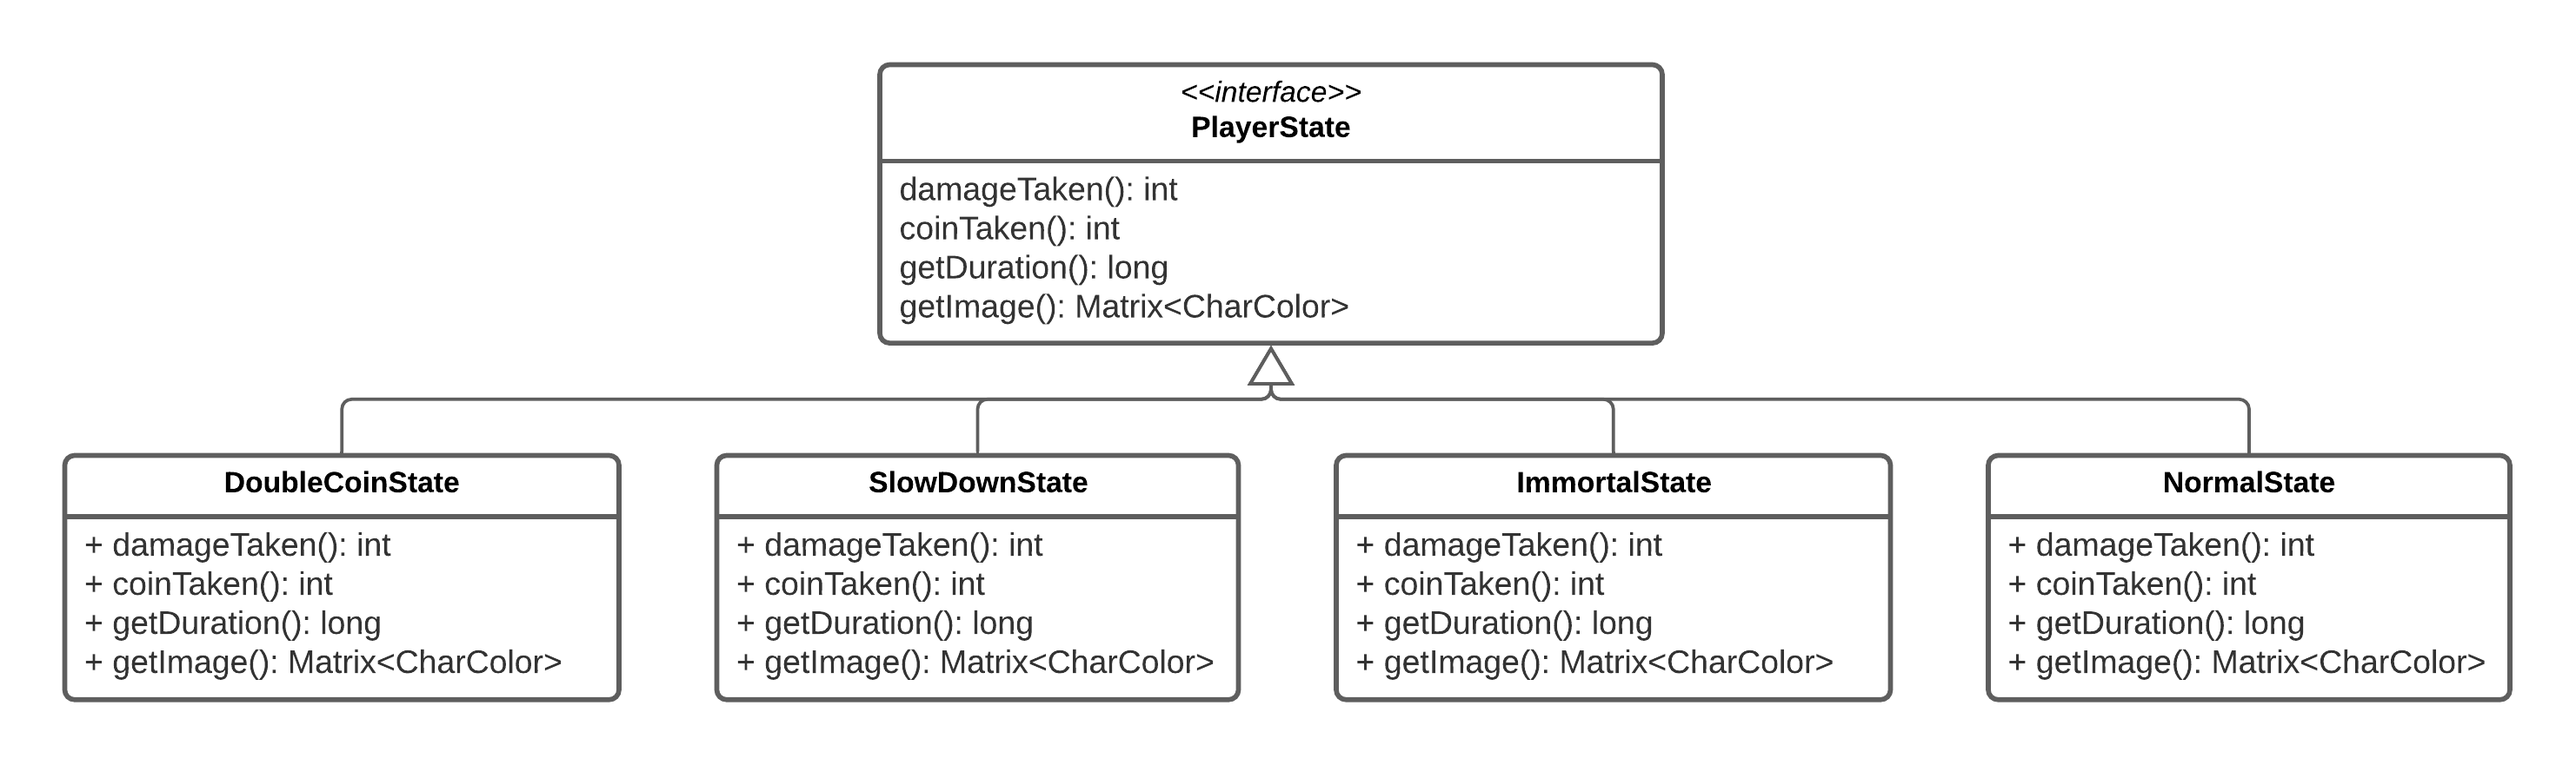
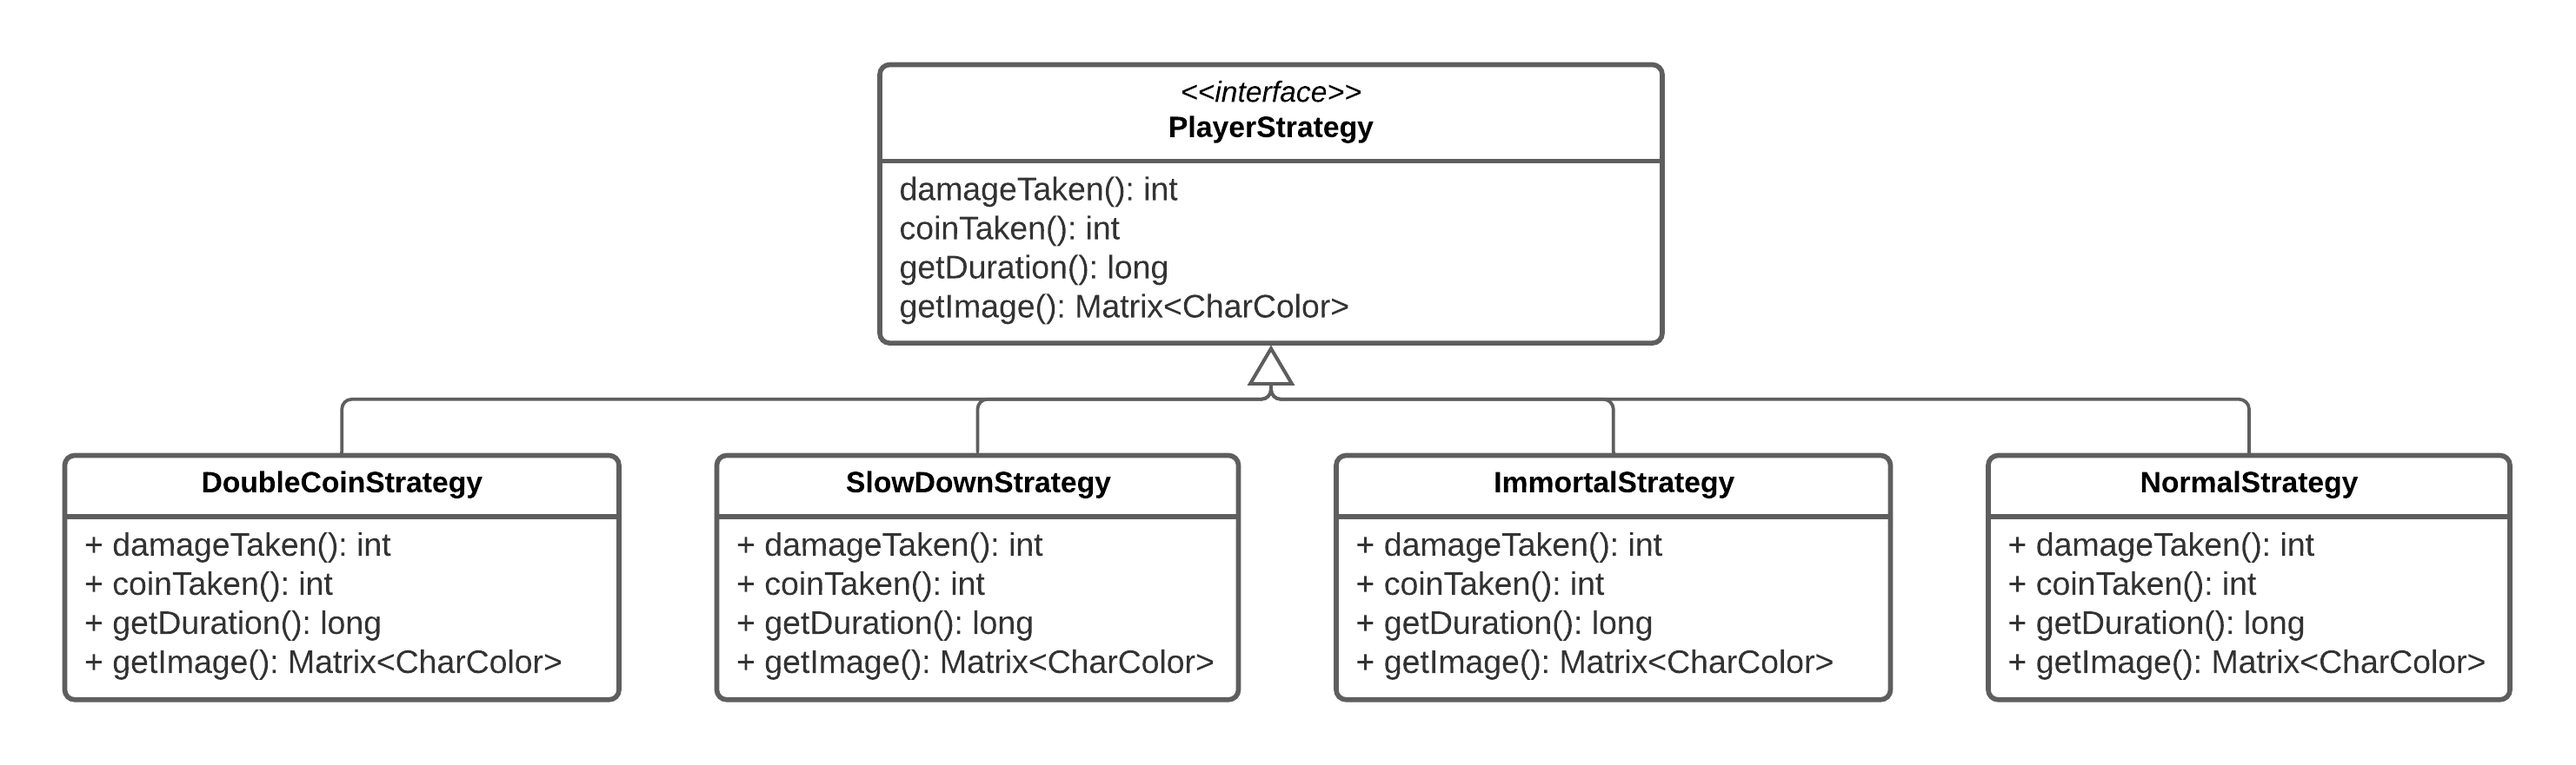
Updated README, added Instructions Menu :pencil2:

diff --git a/src/main/java/org/jetpack/controller/game/PlayerController.java b/src/main/java/org/jetpack/controller/game/PlayerController.java
@@ -8,10 +8,10 @@ import org.jetpack.model.arena.Arena;
 import org.jetpack.model.elements.player.Player;
 import org.jetpack.model.elements.movements.DownMovement;
 import org.jetpack.model.elements.movements.UpMovement;
-import org.jetpack.model.elements.player.playerStates.DoubleCoinsState;
-import org.jetpack.model.elements.player.playerStates.ImmortalState;
-import org.jetpack.model.elements.player.playerStates.NormalState;
-import org.jetpack.model.elements.player.playerStates.SlowDownState;
+import org.jetpack.model.elements.player.playerStrategies.DoubleCoinsStrategy;
+import org.jetpack.model.elements.player.playerStrategies.ImmortalStrategy;
+import org.jetpack.model.elements.player.playerStrategies.NormalStrategy;
+import org.jetpack.model.elements.player.playerStrategies.SlowDownStrategy;
 
 public class PlayerController extends GameController {
     private static final long MOVEMENT_PERIOD = 150;
@@ -31,11 +31,11 @@ public class PlayerController extends GameController {
         powerUpCounter -= elapsed;
         Player player = getModel().getPlayer();
 
-        if (powerUpCounter <= 0) player.setState(new NormalState());
+        if (powerUpCounter <= 0) player.setState(new NormalStrategy());
 
-        if (action == GUI.ACTION.NUMBER1 && player.buyPowerUp()) player.setState(new ImmortalState());
-        else if (action == GUI.ACTION.NUMBER2 && player.buyPowerUp()) player.setState(new DoubleCoinsState());
-        else if (action == GUI.ACTION.NUMBER3 && player.buyPowerUp()) player.setState(new SlowDownState());
+        if (action == GUI.ACTION.NUMBER1 && player.buyPowerUp()) player.setState(new ImmortalStrategy());
+        else if (action == GUI.ACTION.NUMBER2 && player.buyPowerUp()) player.setState(new DoubleCoinsStrategy());
+        else if (action == GUI.ACTION.NUMBER3 && player.buyPowerUp()) player.setState(new SlowDownStrategy());
         else if (action == GUI.ACTION.MOUSE_PRESSED && actionBefore == GUI.ACTION.NONE) {
             movementPace.resetCounter();
             player.setMovement(new UpMovement());

diff --git a/src/main/java/org/jetpack/model/elements/ImageLibrary.java b/src/main/java/org/jetpack/model/elements/ImageLibrary.java
@@ -22,23 +22,23 @@ public final class ImageLibrary {
 
     public static Matrix<CharColor> getJetpackJoyrideImage() {
         if (jetpackJoyrideImage == null) {
-            jetpackJoyrideImage = new Matrix<>(11,4, new CharColor('-', ColorDatabase.GOLD.getName()));
+            jetpackJoyrideImage = new Matrix<>(12,4, new CharColor('-', ColorDatabase.GOLD.getName()));
 
             jetpackJoyrideImage.setValue(0,0, new CharColor('+', ColorDatabase.GOLD.getName()));
-            jetpackJoyrideImage.setValue(10,0, new CharColor('+', ColorDatabase.GOLD.getName()));
+            jetpackJoyrideImage.setValue(11,0, new CharColor('+', ColorDatabase.GOLD.getName()));
             jetpackJoyrideImage.setValue(0,3, new CharColor('+', ColorDatabase.GOLD.getName()));
-            jetpackJoyrideImage.setValue(10,3, new CharColor('+', ColorDatabase.GOLD.getName()));
+            jetpackJoyrideImage.setValue(11,3, new CharColor('+', ColorDatabase.GOLD.getName()));
 
             jetpackJoyrideImage.setValue(0,1, new CharColor('|', ColorDatabase.GOLD.getName()));
             jetpackJoyrideImage.setValue(0,2, new CharColor('|', ColorDatabase.GOLD.getName()));
-            jetpackJoyrideImage.setValue(10,1, new CharColor('|', ColorDatabase.GOLD.getName()));
-            jetpackJoyrideImage.setValue(10,2, new CharColor('|', ColorDatabase.GOLD.getName()));
+            jetpackJoyrideImage.setValue(11,1, new CharColor('|', ColorDatabase.GOLD.getName()));
+            jetpackJoyrideImage.setValue(11,2, new CharColor('|', ColorDatabase.GOLD.getName()));
 
-            String s = "JETPACK  ";
+            String s = "JETPACK   ";
             for (int i = 0; i < s.length(); ++i) jetpackJoyrideImage.setValue(i+1,1,
                     new CharColor(s.charAt(i), ColorDatabase.RED.getName()));
 
-            s = "  JOYRIDE";
+            s = "   JOYRIDE";
             for (int i = 0; i < s.length(); ++i) jetpackJoyrideImage.setValue(i+1,2,
                     new CharColor(s.charAt(i), ColorDatabase.WHITE.getName()));
         }

diff --git a/src/main/java/org/jetpack/viewer/menu/InstructionsMenuViewer.java b/src/main/java/org/jetpack/viewer/menu/InstructionsMenuViewer.java
@@ -1,0 +1,38 @@
+package org.jetpack.viewer.menu;
+
+import org.jetpack.gui.ColorDatabase;
+import org.jetpack.gui.GUI;
+import org.jetpack.model.Position;
+import org.jetpack.model.menu.InstructionsMenu;
+import org.jetpack.viewer.Viewer;
+
+import java.awt.*;
+
+public class InstructionsMenuViewer extends Viewer<InstructionsMenu> {
+
+    public InstructionsMenuViewer(InstructionsMenu menu) {super(menu);}
+
+    @Override
+    protected void drawModel(GUI gui) {
+        Position center = new Position(gui.getTerminalWidth() / 2, gui.getTerminalHeight() / 2);
+
+        gui.drawRectangle(new Position(0,0), new Dimension(gui.getTerminalWidth(), gui.getTerminalHeight()),
+                1, ColorDatabase.GRAY.getName());
+        gui.drawFillRectangle(new Position(1,1), new Dimension(gui.getTerminalWidth() - 2,
+                gui.getTerminalHeight() - 2), ColorDatabase.DARK_GRAY.getName());
+
+        gui.drawText(new Position(center.getX() - 9, 2), "-- INSTRUCTIONS --", ColorDatabase.GOLD.getName());
+        gui.drawText(new Position(2, 5), "P", ColorDatabase.RED.getName());
+        gui.drawText(new Position(4, 5), "NORMAL", ColorDatabase.WHITE.getName());
+        gui.drawText(new Position(2, 7), "P", ColorDatabase.LIGHT_GRAY.getName());
+        gui.drawText(new Position(4, 7), "IMMORTAL     number 1", ColorDatabase.WHITE.getName());
+        gui.drawText(new Position(2, 9), "P", ColorDatabase.GOLD.getName());
+        gui.drawText(new Position(4, 9), "DOUBLE-COINS number 2", ColorDatabase.WHITE.getName());
+        gui.drawText(new Position(2, 11), "P", ColorDatabase.VIBRANT_GREEN.getName());
+        gui.drawText(new Position(4, 11), "SLOW-DOWN    number 3", ColorDatabase.WHITE.getName());
+        gui.drawText(new Position(center.getX() - 9, 14), "10 COINS = 10 SECS", ColorDatabase.WHITE.getName());
+
+        gui.drawText(new Position(gui.getTerminalWidth() - 6, gui.getTerminalHeight() - 3), getModel().getEntry(0),
+                ColorDatabase.WHITE.getName());
+    }
+}

diff --git a/src/main/java/org/jetpack/model/elements/player/Player.java b/src/main/java/org/jetpack/model/elements/player/Player.java
@@ -4,19 +4,19 @@ import org.jetpack.model.Position;
 import org.jetpack.model.elements.Element;
 import org.jetpack.model.elements.ImageLibrary;
 import org.jetpack.model.elements.movements.DownMovement;
-import org.jetpack.model.elements.player.playerStates.*;
+import org.jetpack.model.elements.player.playerStrategies.*;
 
 public class Player extends Element {
     private static final int POWER_UP_COST = 10;
     private int lives;
     private int nCoins;
-    private PlayerState state;
+    private PlayerStrategy state;
 
     public Player(Position position) {
         super(position, ImageLibrary.getPlayerImage());
         this.lives = 3;
         this.nCoins = 0;
-        this.state = new NormalState();
+        this.state = new NormalStrategy();
         setMovement(new DownMovement());
     }
 
@@ -42,12 +42,12 @@ public class Player extends Element {
         return true;
     }
 
-    public void setState(PlayerState state) {
+    public void setState(PlayerStrategy state) {
         setImage(state.getImage());
         this.state = state;
     }
     
-    public PlayerState getState() {
+    public PlayerStrategy getState() {
         return this.state;
     }
 

diff --git a/src/main/java/org/jetpack/controller/menu/MainMenuController.java b/src/main/java/org/jetpack/controller/menu/MainMenuController.java
@@ -3,9 +3,11 @@ package org.jetpack.controller.menu;
 import org.jetpack.controller.Controller;
 import org.jetpack.controller.GameLoop;
 import org.jetpack.gui.GUI;
+import org.jetpack.model.menu.InstructionsMenu;
 import org.jetpack.model.menu.MainMenu;
 import org.jetpack.model.arena.RandomArenaBuilder;
 import org.jetpack.states.ArenaState;
+import org.jetpack.states.InstructionsMenuState;
 
 public class MainMenuController extends Controller<MainMenu> {
 
@@ -27,6 +29,8 @@ public class MainMenuController extends Controller<MainMenu> {
                 if (getModel().isSelectedStart()) gameLoop.setState(new ArenaState
                         (new RandomArenaBuilder(gameLoop.getWidth() - 2 * GameLoop.INFO_SIZE,
                                 gameLoop.getHeight() - 2 * GameLoop.INFO_SIZE).createArena()));
+                else if (getModel().isSelectedInstructions()) gameLoop.setState(
+                        new InstructionsMenuState(new InstructionsMenu()));
                 else if (getModel().isSelectedExit()) gameLoop.stop();
         }
     }

diff --git a/src/main/java/org/jetpack/viewer/menu/MainMenuViewer.java b/src/main/java/org/jetpack/viewer/menu/MainMenuViewer.java
@@ -22,10 +22,12 @@ public class MainMenuViewer extends Viewer<MainMenu> {
                 1, ColorDatabase.GRAY.getName());
         gui.drawFillRectangle(new Position(1,1), new Dimension(gui.getTerminalWidth() - 2,
                 gui.getTerminalHeight() - 2), ColorDatabase.DARK_GRAY.getName());
-        gui.drawImage(new Position(center.getX() - 5, center.getY() - 5), ImageLibrary.getJetpackJoyrideImage());
+
+        gui.drawImage(new Position(center.getX() - 6, center.getY() - 5), ImageLibrary.getJetpackJoyrideImage());
 
         for (int i = 0; i < getModel().getNumberEntries(); i++)
-            gui.drawText(new Position(center.getX() - 2, center.getY() + i), getModel().getEntry(i),
+            gui.drawText(new Position(center.getX() - getModel().getEntry(i).length()/2
+                            , center.getY() + i), getModel().getEntry(i),
                     getModel().isSelected(i) ? ColorDatabase.WHITE.getName() : ColorDatabase.LIGHT_GRAY.getName());
     }
 }

diff --git a/src/main/java/org/jetpack/model/elements/player/playerStrategies/NormalStrategy.java b/src/main/java/org/jetpack/model/elements/player/playerStrategies/NormalStrategy.java
@@ -1,10 +1,10 @@
-package org.jetpack.model.elements.player.playerStates;
+package org.jetpack.model.elements.player.playerStrategies;
 
 import org.jetpack.model.CharColor;
 import org.jetpack.model.Matrix;
 import org.jetpack.model.elements.ImageLibrary;
 
-public class SlowDownState implements PlayerState {
+public class NormalStrategy implements PlayerStrategy {
     @Override
     public int damageTaken() { return 1; }
 
@@ -12,8 +12,10 @@ public class SlowDownState implements PlayerState {
     public int coinTaken() { return 1; }
 
     @Override
-    public long getDuration() { return 10000; }
+    public long getDuration() {
+        return Long.MAX_VALUE;
+    }
 
     @Override
-    public Matrix<CharColor> getImage() { return ImageLibrary.getPlayerSlowDownStateImage(); }
+    public Matrix<CharColor> getImage() { return ImageLibrary.getPlayerImage(); }
 }

diff --git a/src/main/java/org/jetpack/model/elements/player/playerStrategies/SlowDownStrategy.java b/src/main/java/org/jetpack/model/elements/player/playerStrategies/SlowDownStrategy.java
@@ -1,10 +1,10 @@
-package org.jetpack.model.elements.player.playerStates;
+package org.jetpack.model.elements.player.playerStrategies;
 
 import org.jetpack.model.CharColor;
 import org.jetpack.model.Matrix;
 import org.jetpack.model.elements.ImageLibrary;
 
-public class NormalState implements PlayerState {
+public class SlowDownStrategy implements PlayerStrategy {
     @Override
     public int damageTaken() { return 1; }
 
@@ -12,10 +12,8 @@ public class NormalState implements PlayerState {
     public int coinTaken() { return 1; }
 
     @Override
-    public long getDuration() {
-        return Long.MAX_VALUE;
-    }
+    public long getDuration() { return 10000; }
 
     @Override
-    public Matrix<CharColor> getImage() { return ImageLibrary.getPlayerImage(); }
+    public Matrix<CharColor> getImage() { return ImageLibrary.getPlayerSlowDownStateImage(); }
 }

diff --git a/src/main/java/org/jetpack/controller/game/ElementsController.java b/src/main/java/org/jetpack/controller/game/ElementsController.java
@@ -5,7 +5,7 @@ import org.jetpack.gui.GUI;
 import org.jetpack.model.Pace;
 import org.jetpack.model.arena.Arena;
 import org.jetpack.model.elements.Element;
-import org.jetpack.model.elements.player.playerStates.SlowDownState;
+import org.jetpack.model.elements.player.playerStrategies.SlowDownStrategy;
 
 import java.util.List;
 
@@ -36,7 +36,7 @@ public class ElementsController extends GameController {
 
         this.slowDownCounter -= elapsed;
 
-        if (action == GUI.ACTION.NUMBER3 && getModel().getPlayer().getState() instanceof SlowDownState) {
+        if (action == GUI.ACTION.NUMBER3 && getModel().getPlayer().getState() instanceof SlowDownStrategy) {
             slowDownCounter = getModel().getPlayer().getState().getDuration();
             this.movementPeriodBackup = movementPace.getPeriod();
             movementPace.setPeriod(MAX_PERIOD);

diff --git a/src/main/java/org/jetpack/viewer/menu/PauseMenuViewer.java b/src/main/java/org/jetpack/viewer/menu/PauseMenuViewer.java
@@ -22,7 +22,7 @@ public class PauseMenuViewer extends Viewer<PauseMenu> {
         gui.drawFillRectangle(new Position(1,1), new Dimension(gui.getTerminalWidth() - 2,
                 gui.getTerminalHeight() - 2), ColorDatabase.DARK_GRAY.getName());
 
-        gui.drawText(new Position(center.getX() - 6, center.getY() - 3), "-- Paused --", ColorDatabase.GOLD.getName());
+        gui.drawText(new Position(center.getX() - 6, center.getY() - 3), "-- PAUSED --", ColorDatabase.GOLD.getName());
 
         for (int i = 0; i < getModel().getNumberEntries(); i++)
             gui.drawText(new Position(center.getX() - 3, center.getY() - 1 + i), getModel().getEntry(i),

diff --git a/src/main/java/org/jetpack/controller/menu/InstructionsMenuController.java b/src/main/java/org/jetpack/controller/menu/InstructionsMenuController.java
@@ -1,0 +1,18 @@
+package org.jetpack.controller.menu;
+
+import org.jetpack.controller.Controller;
+import org.jetpack.controller.GameLoop;
+import org.jetpack.gui.GUI;
+import org.jetpack.model.menu.InstructionsMenu;
+import org.jetpack.model.menu.MainMenu;
+import org.jetpack.states.MainMenuState;
+
+public class InstructionsMenuController extends Controller<InstructionsMenu> {
+
+    public InstructionsMenuController(InstructionsMenu menu) {super(menu);}
+
+    @Override
+    public void update(GameLoop gameLoop, GUI.ACTION action, long elapsed) {
+        if (action == GUI.ACTION.ENTER) gameLoop.setState(new MainMenuState(new MainMenu()));
+    }
+}

diff --git a/src/main/java/org/jetpack/model/menu/MainMenu.java b/src/main/java/org/jetpack/model/menu/MainMenu.java
@@ -4,14 +4,18 @@ import java.util.Arrays;
 
 public class MainMenu extends Menu {
     public MainMenu() {
-        super(Arrays.asList("START", "EXIT"));
+        super(Arrays.asList("START", "INSTRUCTIONS", "EXIT"));
     }
 
     public boolean isSelectedStart() {
         return isSelected(0);
     }
 
-    public boolean isSelectedExit() {
+    public boolean isSelectedInstructions() {
         return isSelected(1);
+    }
+
+    public boolean isSelectedExit() {
+        return isSelected(2);
     }
 }
